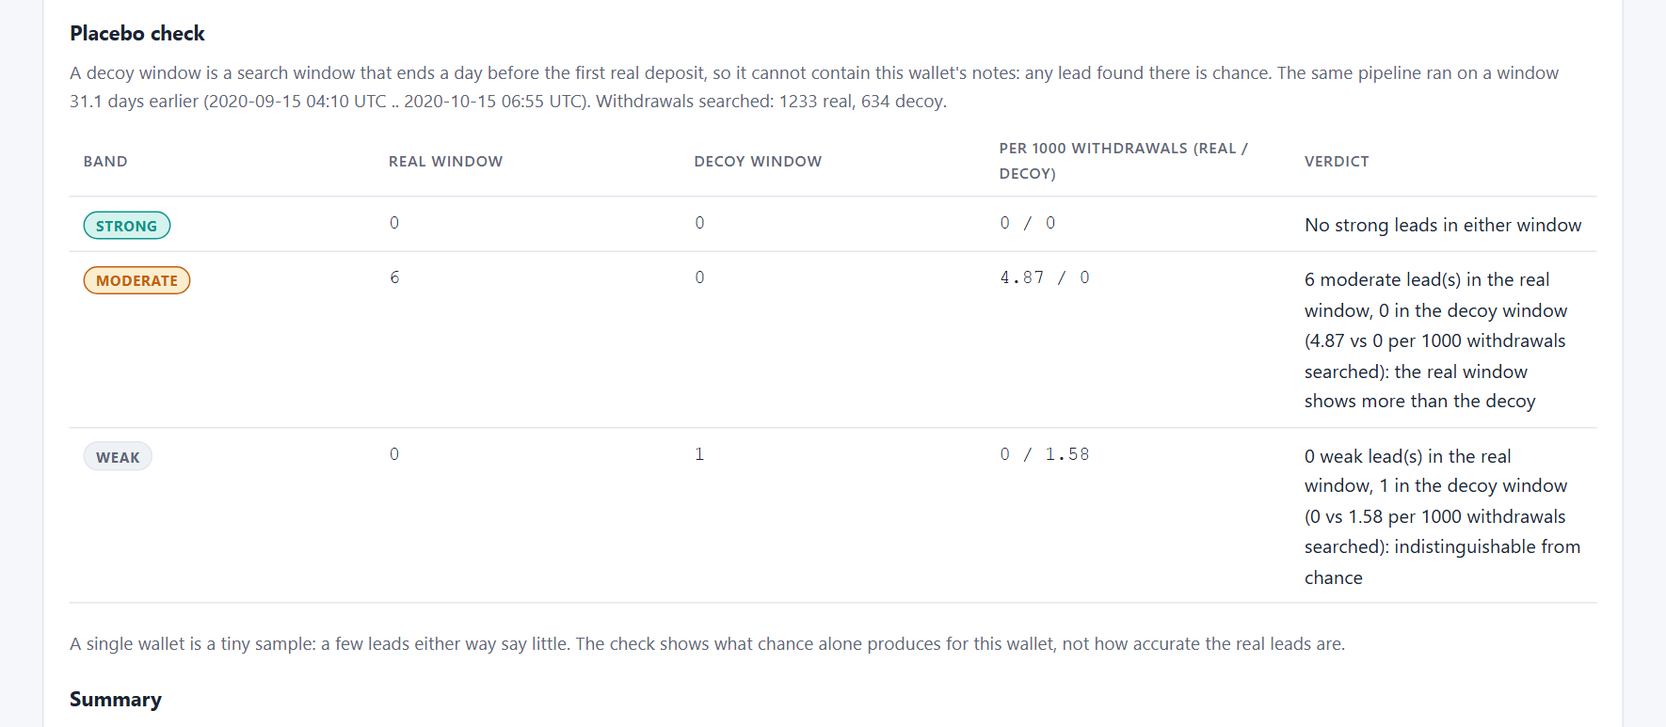
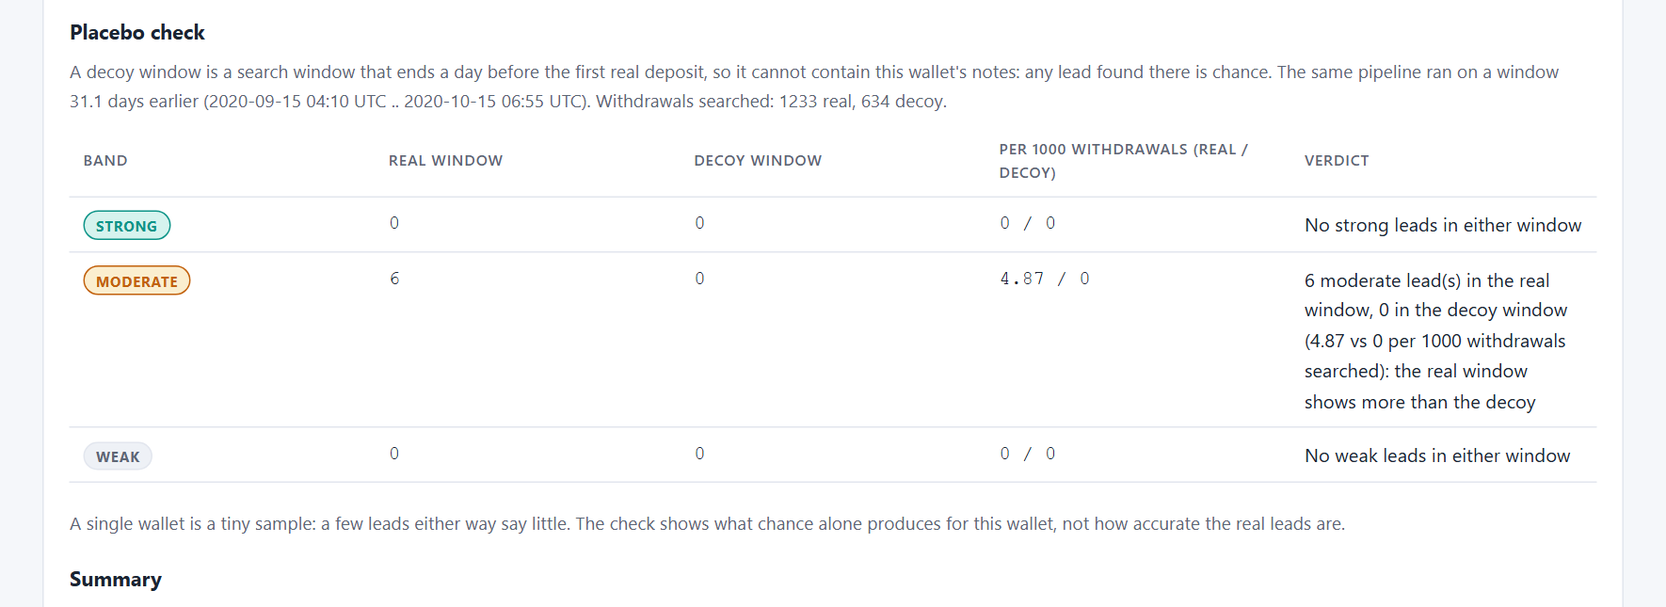
Release 2.15.0: early profile lead, relayed gas ignored, labelled shared deposit

diff --git a/tornado_demix/__init__.py b/tornado_demix/__init__.py
@@ -12,7 +12,7 @@ from .multi import correlate
 from .networks import get_network, load_networks
 from .pools import Pool
 
-__version__ = "2.14.1"
+__version__ = "2.15.0"
 __all__ = [
     "EtherscanClient",
     "run_demix",

diff --git a/docs/EVALUATION.md b/docs/EVALUATION.md
@@ -14,8 +14,13 @@ document combines four checks, each with its own limits:
 
 The placebo test is the only one that measures the signals on real withdrawals at
 scale. It found amount+timing and gas-price leads as frequent in decoy windows as
-in real ones, and only the linked-address family above chance. Since version
-2.13 a band therefore needs a linked address; the tables below use that rule.
+in real ones; above chance stood the linked-address family (a direct counterparty,
+a withdrawal sent by the depositor's side, a deposit address swept to a labelled
+exchange) and, measured later, an early multi-pool profile match. A band needs one
+of these (since version 2.13 for the linked family, since 2.15 for the profile);
+the synthetic tables below use the current rule. The gas-price signal turned out
+to fire almost only on withdrawals whose gas price a relayer chose; since 2.15 it
+counts only on withdrawals the user sent.
 
 ## Synthetic benchmark
 
@@ -70,9 +75,9 @@ of wallets.
 | A | amount+timing, no gate | 0.430 | 0.969 | 0.596 | 0.129 | 0.000 | 0.000 | 0.555 | 0.985 | 0.417 |
 | B | + discrimination gate | 0.433 | 0.966 | 0.598 | 0.127 | 0.000 | 0.000 | 0.685 | 0.995 | 0.722 |
 | C | + self-relay | 0.433 | 0.966 | 0.598 | 0.127 | 0.000 | 0.000 | 0.680 | 0.995 | 0.724 |
-| D | + gas price | 0.430 | 0.973 | 0.597 | 0.130 | 0.000 | 0.000 | 0.775 | 1.000 | 0.780 |
-| E | + linked address | 0.432 | 0.979 | 0.600 | 0.130 | 1.000 | 0.185 | 0.835 | 1.000 | 0.827 |
-| F | + denomination profile | 0.433 | 0.983 | 0.601 | 0.130 | 1.000 | 0.185 | 0.895 | 1.000 | 0.934 |
+| D | + gas price | 0.433 | 0.966 | 0.597 | 0.128 | 0.000 | 0.000 | 0.705 | 0.995 | 0.743 |
+| E | + linked address | 0.434 | 0.973 | 0.600 | 0.128 | 1.000 | 0.185 | 0.775 | 0.995 | 0.795 |
+| F | + denomination profile | 0.435 | 0.976 | 0.602 | 0.128 | 1.000 | 0.185 | 0.845 | 0.995 | 0.913 |
 
 #### Ablation, 50 unrelated recipients per pool window
 
@@ -81,9 +86,9 @@ of wallets.
 | A | amount+timing, no gate | 0.130 | 0.976 | 0.230 | 0.131 | 0.000 | 0.000 | 0.250 | 0.705 | 0.127 |
 | B | + discrimination gate | 0.130 | 0.976 | 0.230 | 0.131 | 0.000 | 0.000 | 0.415 | 0.785 | 0.392 |
 | C | + self-relay | 0.130 | 0.976 | 0.230 | 0.131 | 0.000 | 0.000 | 0.410 | 0.830 | 0.395 |
-| D | + gas price | 0.128 | 0.983 | 0.227 | 0.134 | 0.000 | 0.000 | 0.550 | 0.900 | 0.496 |
-| E | + linked address | 0.129 | 0.986 | 0.227 | 0.134 | 1.000 | 0.182 | 0.660 | 0.920 | 0.627 |
-| F | + denomination profile | 0.129 | 0.986 | 0.227 | 0.134 | 1.000 | 0.182 | 0.750 | 0.945 | 0.790 |
+| D | + gas price | 0.130 | 0.976 | 0.229 | 0.132 | 0.000 | 0.000 | 0.470 | 0.845 | 0.444 |
+| E | + linked address | 0.130 | 0.983 | 0.230 | 0.132 | 1.000 | 0.182 | 0.605 | 0.880 | 0.590 |
+| F | + denomination profile | 0.130 | 0.983 | 0.230 | 0.132 | 1.000 | 0.182 | 0.725 | 0.920 | 0.778 |
 
 #### Ablation, 200 unrelated recipients per pool window
 
@@ -92,9 +97,9 @@ of wallets.
 | A | amount+timing, no gate | 0.040 | 0.967 | 0.076 | 0.118 | 0.000 | 0.000 | 0.100 | 0.350 | 0.038 |
 | B | + discrimination gate | 0.040 | 0.967 | 0.076 | 0.118 | 0.000 | 0.000 | 0.130 | 0.490 | 0.156 |
 | C | + self-relay | 0.040 | 0.967 | 0.076 | 0.118 | 0.000 | 0.000 | 0.145 | 0.510 | 0.156 |
-| D | + gas price | 0.039 | 0.970 | 0.075 | 0.120 | 0.000 | 0.000 | 0.340 | 0.675 | 0.263 |
-| E | + linked address | 0.039 | 0.977 | 0.075 | 0.120 | 1.000 | 0.200 | 0.475 | 0.740 | 0.459 |
-| F | + denomination profile | 0.039 | 0.977 | 0.075 | 0.120 | 1.000 | 0.200 | 0.595 | 0.850 | 0.657 |
+| D | + gas price | 0.040 | 0.970 | 0.076 | 0.118 | 0.000 | 0.000 | 0.265 | 0.590 | 0.233 |
+| E | + linked address | 0.040 | 0.977 | 0.077 | 0.118 | 1.000 | 0.200 | 0.405 | 0.665 | 0.425 |
+| F | + denomination profile | 0.040 | 0.977 | 0.077 | 0.118 | 1.000 | 0.200 | 0.570 | 0.805 | 0.663 |
 
 #### Negative controls, 50 unrelated recipients per pool window
 
@@ -105,7 +110,7 @@ of wallets.
 | exit after the window | config F | 0.00 | 0.00 | 0.06 | 0.00 | 0.00 | 0.94 |
 | one note per fresh address | config A | 0.00 | 0.00 | 0.10 | 0.00 | 0.00 | 0.90 |
 | one note per fresh address | config B | 0.00 | 0.00 | 0.10 | 0.00 | 0.00 | 0.90 |
-| one note per fresh address | config F | 0.00 | 0.00 | 0.07 | 0.00 | 0.00 | 0.93 |
+| one note per fresh address | config F | 0.00 | 0.00 | 0.10 | 0.00 | 0.00 | 0.91 |
 
 #### Counter-measures against the full model, 50 unrelated recipients
 
@@ -120,10 +125,10 @@ of wallets.
 | fresh addresses | 3 exit address(es) | 0.00 | 0.00 | 0.00 | 0.00 | 0.00 | 1.00 |
 | relayer | self-relayed | 1.00 | 0.17 | 0.00 | 0.00 | 0.00 | 0.99 |
 | relayer | through a relayer | 1.00 | 0.17 | 0.00 | 0.00 | 0.00 | 0.99 |
-| gas strategy | deposit gas price reused | 1.00 | 0.99 | 0.00 | 0.00 | 0.00 | 0.99 |
+| gas strategy | deposit gas price reused | 1.00 | 0.17 | 0.00 | 0.00 | 0.00 | 0.99 |
 | gas strategy | wallet default gas | 1.00 | 0.17 | 0.00 | 0.00 | 0.00 | 0.99 |
-| denominations | both pools to one exit | 1.00 | 0.79 | 0.00 | 0.00 | 0.00 | 1.00 |
-| denominations | each pool to its own exit | 1.00 | 0.17 | 0.00 | 0.00 | 0.00 | 1.00 |
+| denominations | both pools to one exit | 1.00 | 0.86 | 0.00 | 0.00 | 0.00 | 1.00 |
+| denominations | each pool to its own exit | 1.00 | 0.18 | 0.00 | 0.00 | 0.00 | 1.00 |
 
 #### Counter-measure intensity, six-note voucher (full model)
 
@@ -165,12 +170,12 @@ address a chance count or gas-price match stays `weak`.
 
 | Field | Top-1 | PR-AUC | control: strong | control: moderate | control: no lead |
 | --- | --- | --- | --- | --- | --- |
-| baseline | 0.75 | 0.79 | 0.00 | 0.00 | 0.06 |
-| no chance gas reuse | 0.81 | 0.89 | 0.00 | 0.00 | 0.07 |
-| chance gas reuse x5 (p=0.01) | 0.62 | 0.73 | 0.00 | 0.00 | 0.04 |
-| self-relay 5 % | 0.78 | 0.81 | 0.00 | 0.00 | 0.06 |
-| self-relay 30 % | 0.73 | 0.77 | 0.00 | 0.00 | 0.06 |
-| busier recipients (p_more=0.6) | 0.67 | 0.76 | 0.00 | 0.00 | 0.01 |
+| baseline | 0.72 | 0.78 | 0.00 | 0.00 | 0.06 |
+| no chance gas reuse | 0.77 | 0.87 | 0.00 | 0.00 | 0.07 |
+| chance gas reuse x5 (p=0.01) | 0.67 | 0.79 | 0.00 | 0.00 | 0.09 |
+| self-relay 5 % | 0.74 | 0.79 | 0.00 | 0.00 | 0.06 |
+| self-relay 30 % | 0.70 | 0.76 | 0.00 | 0.00 | 0.06 |
+| busier recipients (p_more=0.6) | 0.66 | 0.77 | 0.00 | 0.00 | 0.01 |
 
 ### Reading the results
 
@@ -179,8 +184,12 @@ address a chance count or gas-price match stays `weak`.
   `disc ≥ 0.5`), but B's `disc`-scaled score lifts PR-AUC about threefold (0.13 → 0.39 at
   N = 50).
 - **On generated data each family adds ranking power.** Through B, D, E and F, PR-AUC
-  rises 0.39 → 0.50 → 0.63 → 0.79 and top-1 0.42 → 0.75 at N = 50; at N = 200 top-1
-  rises from 0.13 to 0.60. Recall of "listed" stays near 0.98: the exit is almost always
+  rises 0.39 → 0.44 → 0.59 → 0.78 and top-1 0.42 → 0.73 at N = 50; at N = 200 top-1
+  rises from 0.13 to 0.57. The gas-price step is smaller than before version 2.15:
+  a generated exit that reuses the deposit gas price through a relayer no longer
+  counts (in the counter-measure table, top-1 for "deposit gas price reused" falls
+  from 0.99 to 0.17), which is what the placebo test says about real relayed
+  withdrawals. Recall of "listed" stays near 0.98: the exit is almost always
   among the candidates, and the question is how high it ranks. The placebo test below
   shows that the amount+timing and gas-price part of this does not carry over to real
   pools.
@@ -259,38 +268,76 @@ What this shows:
   the intervals are wide, and the result says nothing about careful users beyond
   the fact that the tool finds no evidence on them.
 
+**Why gas price failed.** Of the gas-price matches in these runs, 44 of 45 in
+target windows and 62 of 64 in decoy windows were on withdrawals sent through a
+relayer: the relayer chose that gas price, not the user, so a match with the
+deposit's gas price says nothing about who withdrew. Since version 2.15 the signal
+counts only on withdrawals the user sent (no relayer); re-scored with that rule,
+the same 152 runs give no gas-price lead at all. The tables above keep the
+previous rule, under which the test was run.
+
+### Early multi-pool profile
+
+`tools/placebo_profile.py` tests a denomination-profile match offline on every
+eligible depositor of the ENS universe (28,739 depositors with two or more notes;
+no explorer calls). The profile is the wallet's note count per pool; a recipient
+matches when, in every pool the wallet used, it received exactly that many
+withdrawals between the pool's first deposit and its last deposit plus a window.
+Decoy windows are shifted back as above.
+
+| Profile | 24 h | 72 h | 30 days |
+|---|---|---|---|
+| 2+ notes, any pools | 117724 / 108163 (0.99) | 175944 / 164315 (1.00) | 911742 / 876567 (1.01) |
+| 2+ notes, 2+ pools | 3222 / 1282 (0.43) | 6509 / 4275 (0.71) | 57693 / 52887 (0.96) |
+| 6+ notes, any pools | 3551 / 2394 (0.74) | 4809 / 3357 (0.77) | 19681 / 16874 (0.90) |
+| 6+ notes, 2+ pools | 784 / 114 (0.16) | 1089 / 331 (0.34) | 3992 / 2966 (0.78) |
+| 10+ notes, any pools | 477 / 206 (0.47) | 605 / 265 (0.48) | 1557 / 1187 (0.81) |
+| 10+ notes, 2+ pools | 248 / 13 (0.06) | 318 / 34 (0.12) | 642 / 314 (0.52) |
+
+(target / decoy hits, chance share.) A single-pool profile is the count match again
+and stays near chance. A profile over two or more pools is far rarer by chance,
+and the shorter the window the cleaner: with at least 10 notes over two or more
+pools, 318 hits against 34 within 72 hours (chance share 0.12, 95 % interval
+0.08-0.16), cleaner than a direct linked address. Since version 2.15 this is the
+`early_profile` signal (at least 10 notes, two or more pools, 72 hours); it makes
+a lead on its own. Being a stricter count match, it belongs to the amount+timing
+family, so with a count match it stays `moderate`.
+
 ### Shared exchange deposit addresses
 
 The shared-deposit-address signal (`shared_deposit`, see
 [METHODOLOGY.md](METHODOLOGY.md)) was tested the same way. `tools/placebo_dar.py`
 applies it to the 152 depositors above; `tools/placebo_dar_universe.py` reads the
 windows offline from the ENS universe (it reproduces the full-run result for all
-152 depositors) and draws 1,000 new random depositors (seed 2; one failed on the
-explorer). The attribution set was loaded in both runs.
+152 depositors) and draws 1,000 new random depositors (seed 2). Lookups that hit an
+explorer error are retried rather than silently skipped; none failed in the final
+runs. Version 2.15 code, attribution set loaded unless stated.
 
-| Sample and hot-wallet rule | Depositors with a deposit address | Target hits | Decoy hits | Chance share (95 % CI) |
+| Sample and rule | Depositors with a deposit address | Target hits | Decoy hits | Chance share (95 % CI) |
 |---|---|---|---|---|
-| 152 depositors (full runs), label or activity | 52 | 15 (11 depositors) | 1 | 0.07 (0-0.27) |
-| 999 depositors, label or activity (as implemented) | 363 | 57 (45 depositors) | 18 | 0.34 (0.14-0.68) |
-| 999 depositors, exchange label only | 152 | 27 (19 depositors) | 4 | 0.16 (0.03-0.45) |
-| 999 depositors, strict: one exchange, at most 10 senders | | 27 | 13 | 0.51 (0.16-1.24) |
+| 152 depositors (full runs): swept to a labelled exchange (scored) | | 4 | 0 | 0 |
+| 152 depositors: any deposit address found | 28 | 9 | 1 | 0.12 (0-0.53) |
+| 1,000 depositors: swept to a labelled exchange (scored) | | 27 (19 depositors) | 4 | 0.16 (0.03-0.44) |
+| 1,000 depositors: any deposit address found | 251 | 38 (28 depositors) | 13 | 0.36 (0.11-0.89) |
+| 1,000 depositors, no attribution set (activity only) | 164 | 16 (13 depositors) | 12 | 0.80 (0.21-2.37) |
 
 (About 2.1 million withdrawals searched in target windows and 2.0 million in decoy
-windows.) A sweep target counts as a hot wallet when it is labelled as an exchange
-or has at least 10,000 transactions. With the label alone the signal is cleaner
-(0.16) but fires half as often; with activity as well it fires for about 4.5 % of
-depositors at a chance share of 0.34, comparable to `linked` over 30 days (0.25).
-The evidence line says which it was ("swept to Binance" or "a hot wallet"), and an
-attribution set makes the signal more precise. 44 of the 57 target hits are not
-direct counterparties of the depositor, so the signal finds exits that `linked`
-does not. The strict rule does not lower the chance share. As for the other
-families, a decoy hit is a false note link, not necessarily a false identity link.
-The other tables in this document were computed before the signal was added
-(version 2.14); it can only add linked-family leads.
+windows.) An address counts as a deposit address when its outflow goes to hot
+wallets. A hot wallet recognised by an exchange label gives a clean signal: 27
+against 4, and 25 of the 27 are not direct counterparties of the depositor, so the
+signal finds exits that `linked` does not. A hot wallet recognised by activity
+alone does not: without an attribution set the signal is at chance (16 against
+12). Two fixes on the way did not change that: a busy contract (a token, a DEX
+router, the Tornado router) is no longer taken for a hot wallet, and an unlabelled
+hot wallet must receive amounts forwarded within 3,200 blocks (the forwarding test
+of Victor used by Tutela). So since version 2.15 a shared deposit address is scored
+only when it sweeps to labelled exchange wallets; one found by activity alone is
+shown as context. Without an attribution set the signal therefore does not fire.
 
-(The first run of this test, published with 2.14.0, used a busy check that the
-explorer's 1,000-row page cap silently turned off, so only labelled hot wallets
-counted; that is the "exchange label only" row. Version 2.14.1 fixes the check.)
+(History: 2.14.0 published 57 against 18 for "label or activity"; that run used a
+busy check the explorer's page cap had turned off, and later ones counted token and
+router contracts as hot wallets. The "labelled exchange" numbers are the same in
+every run.)
 
 The check is also available per case (`demix --placebo`, and the web UI option):
 the decoy window of the wallet under investigation, beside the real one.
@@ -303,7 +350,7 @@ github.com/tayvano/lazarus-bluenoroff-research. Default settings, 30-day window.
 
 | Case | Depositors (deposits) | Exits known | Exits in a window | Candidates | True | Other |
 |---|---|---|---|---|---|---|
-| KuCoin 2020 | 2 (55) | 36 | 35 per depositor | 7 | 6 | 1 `weak` (chance gas-price reuse) |
+| KuCoin 2020 | 2 (55) | 36 | 35 per depositor | 6 | 6 | 0 |
 | Harmony 2022 | 14 (857) | 30 of 55 listed | 0-30 per depositor | 0 | 0 | 0 |
 
 Run with `python tools/real_cases.py`; it also prints the context marks below.
@@ -327,8 +374,9 @@ started withdrawing a day after that deposit, are not found: `0x8bd8...` is not 
 counterparty of either depositor. So of the attacker's 35 exits inside the window
 the tool finds 6. How many of the others carry notes of these two depositors (55
 of the attacker's 497 notes) cannot be told from chain data, so this is not a
-per-depositor recall: the second caller's notes may come from other deposits. The other depositor gets one unrelated candidate from a chance gas-price
-match; it was `moderate` before version 2.13 and is `weak` now.
+per-depositor recall: the second caller's notes may come from other deposits. The other depositor used to get one unrelated candidate from a chance gas-price
+match on a relayed withdrawal (`moderate` before version 2.13, `weak` in 2.13-2.14);
+since 2.15 a relayed withdrawal earns no gas-price signal and the candidate is gone.
 
 **Harmony.** Investigators listed 55 withdrawal addresses; 30 of them received 180
 withdrawals from the 100 ETH pool within 30 days of the deposits, 6 per address in
@@ -352,8 +400,7 @@ holds 23.0 addresses on average, 16.8 of them (73 %) on the investigators' list;
 the other members were paid out in the same bursts and are leads, not errors, as
 the list itself is partial. In KuCoin, 30 of the 70 (true exit, depositor window)
 pairs sit in a group; from one true exit the group holds 4.9 addresses, 4.5 of them
-(91 %) true exits. The chance candidate of the second depositor is `weak`, so it
-anchors nothing.
+(91 %) true exits.
 
 Both cases show the same limit as the synthetic counter-measures: when notes are
 pooled and redistributed, a count match finds nothing, and the tool reports no
@@ -457,7 +504,7 @@ Run on 2026-09-28 at the commit that added this section.
 
 | Check | Result |
 |---|---|
-| `pytest` (network blocked, incl. `getaddrinfo`) | 687 passed |
+| `pytest` (network blocked, incl. `getaddrinfo`) | 705 passed |
 | `pytest-randomly`, seeds 1, 2, 3 | all pass in every order |
 | Branch coverage (`--cov-branch`) | 93 % overall; `heuristics` 97 %, `demix` 93 %, `cli` 89 % |
 | Property-based tests (Hypothesis, 24) and edge-case tests (10) | pass; the four that documented defects now pin the fixes |

diff --git a/README.md b/README.md
@@ -3,11 +3,12 @@
 Probabilistic demixing of Tornado Cash deposits using only public on-chain data.
 The toolkit links a depositor wallet to likely withdrawal addresses and reports
 each candidate with an evidence band and the evidence behind it. A band needs a
-linked address (a direct counterparty, a withdrawal sent by the depositor's
-side, or a shared exchange deposit address): on real depositors amount+timing
-and gas-price matches turn up as often by chance as for real exits, so they only
-corroborate. It also groups exits paid out
-together, links wallets of one operator and follows withdrawn funds forward.
+lead signal that stood above chance on real depositors: a linked address (a direct
+counterparty, a withdrawal sent by the depositor's side, a deposit address swept
+to a labelled exchange) or an early multi-pool profile match. Amount+timing and
+gas-price matches alone turn up as often by chance as for real exits, so they only
+corroborate. It also groups exits paid out together, links wallets of one operator
+and follows withdrawn funds forward.
 
 Output is a set of leads for further investigation, not proof. Tornado Cash breaks
 the deposit-withdrawal link cryptographically; the tool looks for behavioural
@@ -26,12 +27,15 @@ traces users leave around it.
 - Scores every recipient: a count match weighted by how much of the recipient
   field it eliminates (`disc`; counted only at `disc >= 0.5` in a field of at
   least 5 recipients), self-relayed withdrawals, reuse of a deposit gas price
-  (only in blocks without an EIP-1559 base fee), and direct transactions with the
-  depositor (not counted when the counterparty is a contract).
-- Reports a band per candidate: `strong` (a linked address plus another evidence
-  family), `moderate` (a linked address alone), `weak` (amount+timing and/or gas
-  price without a linked address — chance-level on real depositors, see the
-  placebo test in [EVALUATION.md](https://github.com/prettydeath/TornadoCash-demixer/blob/main/docs/EVALUATION.md)), with the evidence behind it: every family, whether it holds,
+  (only on withdrawals the user sent, and only in blocks without an EIP-1559 base
+  fee), direct transactions with the depositor (not counted when the counterparty
+  is a contract), and an early multi-pool profile: a recipient that received the
+  wallet's full note profile over two or more pools (10+ notes) within 72 hours of
+  the last deposit in each pool.
+- Reports a band per candidate: `strong` (a lead signal — linked address or early
+  multi-pool profile — plus another evidence family), `moderate` (a lead signal
+  alone), `weak` (amount+timing and/or gas price without one — chance-level on
+  real depositors, see the placebo test in [EVALUATION.md](https://github.com/prettydeath/TornadoCash-demixer/blob/main/docs/EVALUATION.md)), with the evidence behind it: every family, whether it holds,
   and the numbers (share of the recipient field with the same count, `disc`,
   gas price). Candidates are ordered by band, then by an uncalibrated noisy-OR
   score taken across evidence families (within a family only the strongest
@@ -42,9 +46,11 @@ traces users leave around it.
   operator that pooled several deposits; a group is listed when a corroborated
   candidate or an exit you already know (`--known-exit`) anchors it.
 - Finds the depositor's exchange deposit addresses and flags a recipient that
-  sent funds to the same one (`shared_deposit`, linked-address family; on 999
-  random depositors 57 hits in real windows against 18 in decoy windows, 27
-  against 4 when only labelled exchange hot wallets count).
+  sent funds to the same one (`shared_deposit`, linked-address family). It is
+  scored only when the deposit address sweeps to labelled exchange wallets (on
+  1,000 random depositors 27 real-window against 4 decoy hits); one recognised by
+  activity alone was at chance and is shown as context, so the signal needs an
+  attribution set.
 - Marks a linked exit that withdrew within 72 hours of the deposit (early exit;
   context, never scored).
 - Optionally runs a placebo check (`--placebo`, or the web UI option): the same
@@ -362,10 +368,12 @@ The method on both public cases, with the numbers behind each claim, is in
 - On real depositors the count match, self-relay and gas-price reuse do not beat
   chance: a placebo test on 152 random Ethereum depositors found as many such
   leads in decoy windows before the first deposit as in the real windows, at every
-  window from 6 hours to 30 days. Only a linked address (a direct counterparty, a
-  withdrawal sent by the depositor's side, or a shared exchange deposit address)
-  stood above chance (30 against 7 over
-  30 days, 19 against 1 within 72 hours), so only it makes a `moderate` or `strong`
+  window from 6 hours to 30 days; gas-price matches were almost all on withdrawals
+  whose gas price a relayer chose. A linked address (a direct counterparty, a
+  withdrawal sent by the depositor's side, or a deposit address swept to a
+  labelled exchange) stood above chance (30 against 7 over 30 days, 19 against 1
+  within 72 hours), and so did a multi-pool profile of 10+ notes within 72 hours
+  (318 against 34 on 28,739 depositors); only these make a `moderate` or `strong`
   band ([details](https://github.com/prettydeath/TornadoCash-demixer/blob/main/docs/EVALUATION.md#placebo-test-on-real-depositors)).
 - On 31 depositor/exit pairs labelled through ENS (2019-2026), demix found 16 of
   the 21 pairs inside its window, all through a direct transaction between the

diff --git a/docs/METHODOLOGY.md b/docs/METHODOLOGY.md
@@ -210,7 +210,11 @@ gas-price gate and the contract check make bounded, memoised RPC calls.
 - **Unique gas price.** The `Withdrawal` log endpoint returns each withdrawal's
   `gasPrice`, and the wallet's deposit gas prices come from its tx list. A
   withdrawal whose gas price exactly equals a deposit gas price, and which is rare
-  in the window (shared by ≤3 withdrawals), is flagged `gas_price`.
+  in the window (shared by ≤3 withdrawals), is flagged `gas_price`. Only a
+  withdrawal the user sent without a relayer counts: a relayer chooses the gas
+  price of the transactions it sends, so a match there says nothing about the
+  user. On real depositors 44 of 45 matches were on relayed withdrawals before this
+  rule (version 2.15, [EVALUATION.md](EVALUATION.md)).
 
   **Gated on EIP-1559.** The heuristic assumes the sender chose the price. After
   London the effective price on a log is base fee plus tip, and the base fee
@@ -248,24 +252,43 @@ gas-price gate and the contract check make bounded, memoised RPC calls.
   address when it has fewer than 1,000 transactions and at most 50 senders, and at
   least 80 % of its outgoing transfers go to hot wallets: among its three most
   frequent destinations, those labelled as an exchange or with at least 10,000
-  transactions. A recipient in the window that also sent funds to one of these
-  addresses is flagged `shared_deposit` (linked-address family). The lookup costs
-  up to 50 history queries plus a busy check per new sweep target, and can be
-  turned off (`--no-deposit-addresses`).
+  transactions. A busy address counts as a hot wallet only if it is not a contract
+  (a token, a DEX router or the Tornado router is busy too) and receives amounts
+  forwarded within 3,200 blocks, short by at most 0.01 ETH or 1 % of a token amount
+  (the forwarding test of Victor used by Tutela). A recipient in the window that
+  also sent funds to one of these addresses is flagged `shared_deposit`
+  (linked-address family), but only when the deposit address sweeps at least 80 %
+  of its outflow to **labelled** exchange wallets: in the placebo test that version
+  gave 27 real-window against 4 decoy hits, while deposit addresses recognised by
+  activity alone were at chance (16 against 12). Those are shown as context. So
+  without an attribution set the signal does not fire. The lookup costs up to 50
+  history queries plus a busy check per new sweep target, and can be turned off
+  (`--no-deposit-addresses`).
+- **Early multi-pool profile.** A wallet that deposited at least 10 notes over two
+  or more pools has a profile (notes per pool). A recipient that, in every one of
+  those pools, received exactly that many withdrawals between the pool's first
+  deposit and 72 hours after its last one is flagged `early_profile`. One pool is
+  the count match again and is chance-level; over two or more pools and a short
+  window the placebo test on 28,739 depositors gave 318 real-window against 34
+  decoy hits (chance share 0.12). It belongs to the amount+timing family (it reads
+  the same withdrawals as the count match) but, unlike the rest of that family,
+  makes a lead on its own.
 
 **Band, evidence and score.** Each recipient accumulates a signal set
-(`count_match`, `self_relayed`, `gas_price`, `linked`, `linked_sender`,
-`shared_deposit`, and `profile_match` on `multi` runs). The signals fall into
-evidence families: amount+timing (`count_match`, `self_relayed`, `profile_match`),
-gas price, linked address (`linked`, `linked_sender`, `shared_deposit`). The **band** needs a linked address:
-`strong` for a linked address plus another family, `moderate` for a linked address
-alone, `weak` for amount+timing and/or gas price without one. The rule follows the
+(`count_match`, `self_relayed`, `early_profile`, `gas_price`, `linked`,
+`linked_sender`, `shared_deposit`, and `profile_match` on `multi` runs). The signals
+fall into evidence families: amount+timing (`count_match`, `self_relayed`,
+`early_profile`, `profile_match`), gas price, linked address (`linked`,
+`linked_sender`, `shared_deposit`). The **band** needs a lead signal — a linked
+address or an early multi-pool profile: `strong` for a lead signal plus another
+family, `moderate` for a lead signal alone, `weak` otherwise. The rule follows the
 placebo test on real depositors ([EVALUATION.md](EVALUATION.md)): run on decoy
 windows that end before the wallet's first deposit, the pipeline found
 amount+timing and gas-price leads as often as in the real windows, and only
 linked-address leads clearly more often (30 against 7 over 30 days; 19 against 1
-within 72 hours). Before version 2.13 a gas-price match or a self-relayed count
-match alone reached `moderate`, and two non-linked families reached `strong`. A
+within 72 hours); the early multi-pool profile was added in 2.15 on the same kind
+of evidence. Before version 2.13 a gas-price match or a self-relayed count match
+alone reached `moderate`, and two non-linked families reached `strong`. A
 linked exit whose first withdrawal came within 72 hours of the deposit is marked
 as an **early exit**; like the fresh-address mark it is context and does not
 change the band or the score. Every candidate carries its **evidence**: each family, whether it
